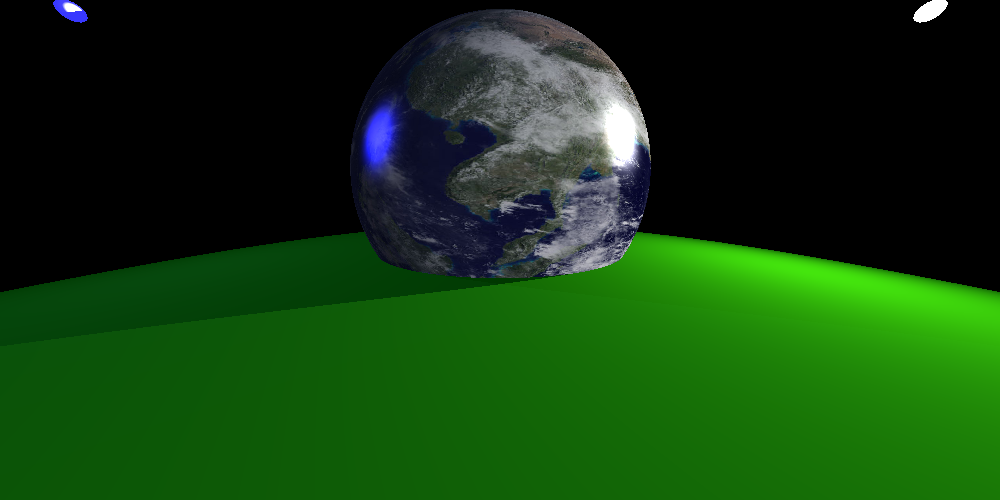
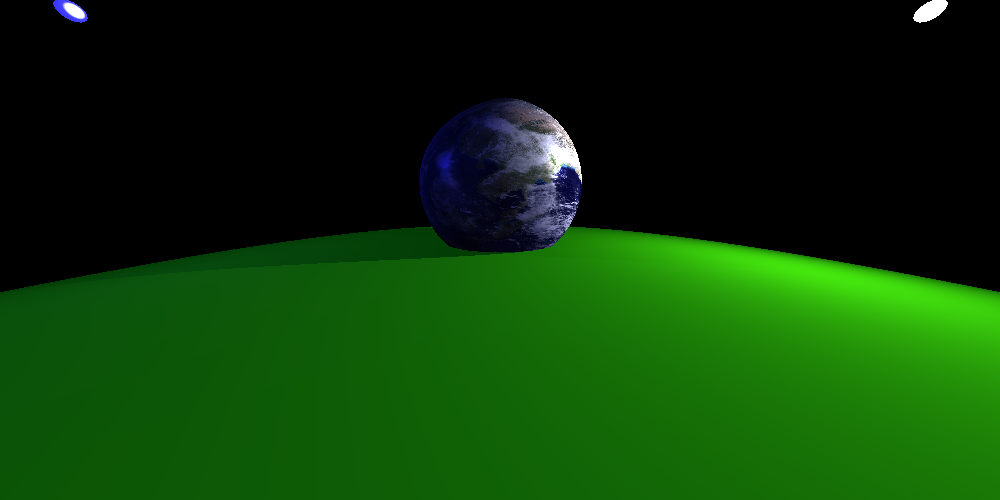
Texture improvements

Changed region(s): [[0.248, 0.0, 0.651, 0.63], [0.062, 0.0, 0.093, 0.06]]

diff --git a/IK_Raytracer/IK_Raytracer/LightIntensity.cpp b/IK_Raytracer/IK_Raytracer/LightIntensity.cpp
@@ -267,10 +267,21 @@ LightIntensity LightIntensity::GetColorFromRay(const Ray& r, Hitable* world, vec
 		{
 			//std::cout << "TEXTURE" << std::endl;
 			//std::cout << rec.u << rec.v << std::endl;
-			return LightIntensity(red(rec.materialPtr->mAmbient.r()	 * ambientColor.r() + rec.materialPtr->texture->value(rec.u, rec.v, rec.p).r()  + rec.materialPtr->mSpecular.r() * specularColor.r()),
-								  green(rec.materialPtr->mAmbient.g()* ambientColor.g() + rec.materialPtr->texture->value(rec.u, rec.v, rec.p).g()  + rec.materialPtr->mSpecular.g() * specularColor.g()),
-								  blue(rec.materialPtr->mAmbient.b() * ambientColor.b() + rec.materialPtr->texture->value(rec.u, rec.v, rec.p).b()  + rec.materialPtr->mSpecular.b() * specularColor.b()));
+			float redTexAmbientValue =  rec.materialPtr->texture->value(rec.u, rec.v, rec.p).r() * 0.1 * ambientColor.r();
+			float greenTexAmbientValue =rec.materialPtr->texture->value(rec.u, rec.v, rec.p).g() * 0.1 * ambientColor.g();
+			float blueTexAmbientValue = rec.materialPtr->texture->value(rec.u, rec.v, rec.p).b() * 0.1 * ambientColor.b();
+			
+			float redTexDiffuseValue =   rec.materialPtr->texture->value(rec.u, rec.v, rec.p).r() * 3 * diffuseColor.r();
+			float greenTexDiffuseValue = rec.materialPtr->texture->value(rec.u, rec.v, rec.p).g() * 3 * diffuseColor.g();
+			float blueTexDiffuseValue =  rec.materialPtr->texture->value(rec.u, rec.v, rec.p).b() * 3 * diffuseColor.b();
+			
+			float redTexSpecularValue =  rec.materialPtr->texture->value(rec.u, rec.v, rec.p).r() * specularColor.r();
+			float greenTexSpecularValue =rec.materialPtr->texture->value(rec.u, rec.v, rec.p).g() * specularColor.g();
+			float blueTexSpecularValue = rec.materialPtr->texture->value(rec.u, rec.v, rec.p).b() * specularColor.b();
 
+			return LightIntensity(red(redTexAmbientValue + redTexDiffuseValue + redTexSpecularValue),
+								  green(greenTexAmbientValue + greenTexDiffuseValue + greenTexSpecularValue),
+								  blue(blueTexAmbientValue + blueTexDiffuseValue + blueTexSpecularValue));
 		}
 		else
 		{

diff --git a/IK_Raytracer/IK_Raytracer/IK_Raytracer.cpp b/IK_Raytracer/IK_Raytracer/IK_Raytracer.cpp
@@ -105,7 +105,7 @@ int main()
     hitables.push_back(ground);
 
     
-    Hitable* sphere = new Sphere(vec3(0, 1, 2), 5, earthMat);
+    Hitable* sphere = new Sphere(vec3(0, 1, 2), 3, earthMat);
     hitables.push_back(sphere);
     
     /*Hitable* sphere1 = new Sphere(vec3(0, 0, -1), 2, vec3(0, 154, 23), new Material(vec3(0, 0, 0), vec3(30, 30, 30), vec3(255, 255, 255), 128));
@@ -216,7 +216,7 @@ int main()
                 perspective->SetPixel(i, j, finalColor);
         }
 
-        std::cout << "Please wait, " << (i * 100) / scrWidth << "% of image has been calculated." << std::endl;
+        //std::cout << "Please wait, " << (i * 100) / scrWidth << "% of image has been calculated." << std::endl;
     }
     
 
